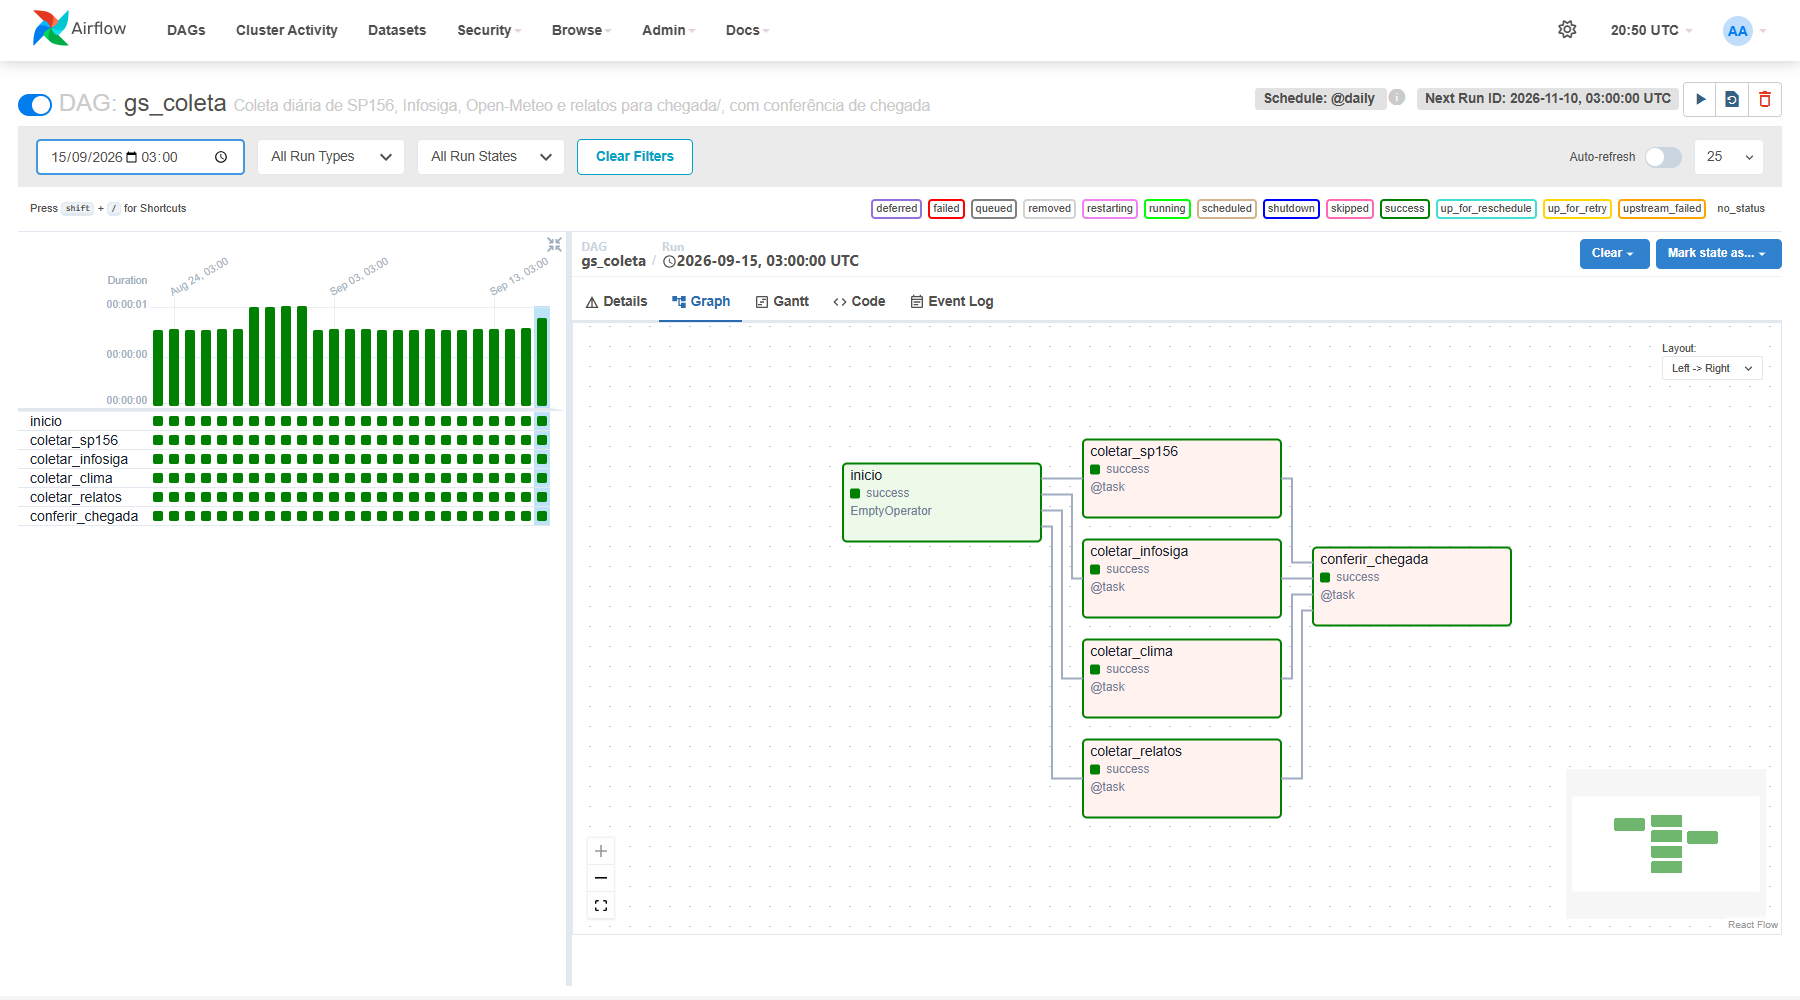
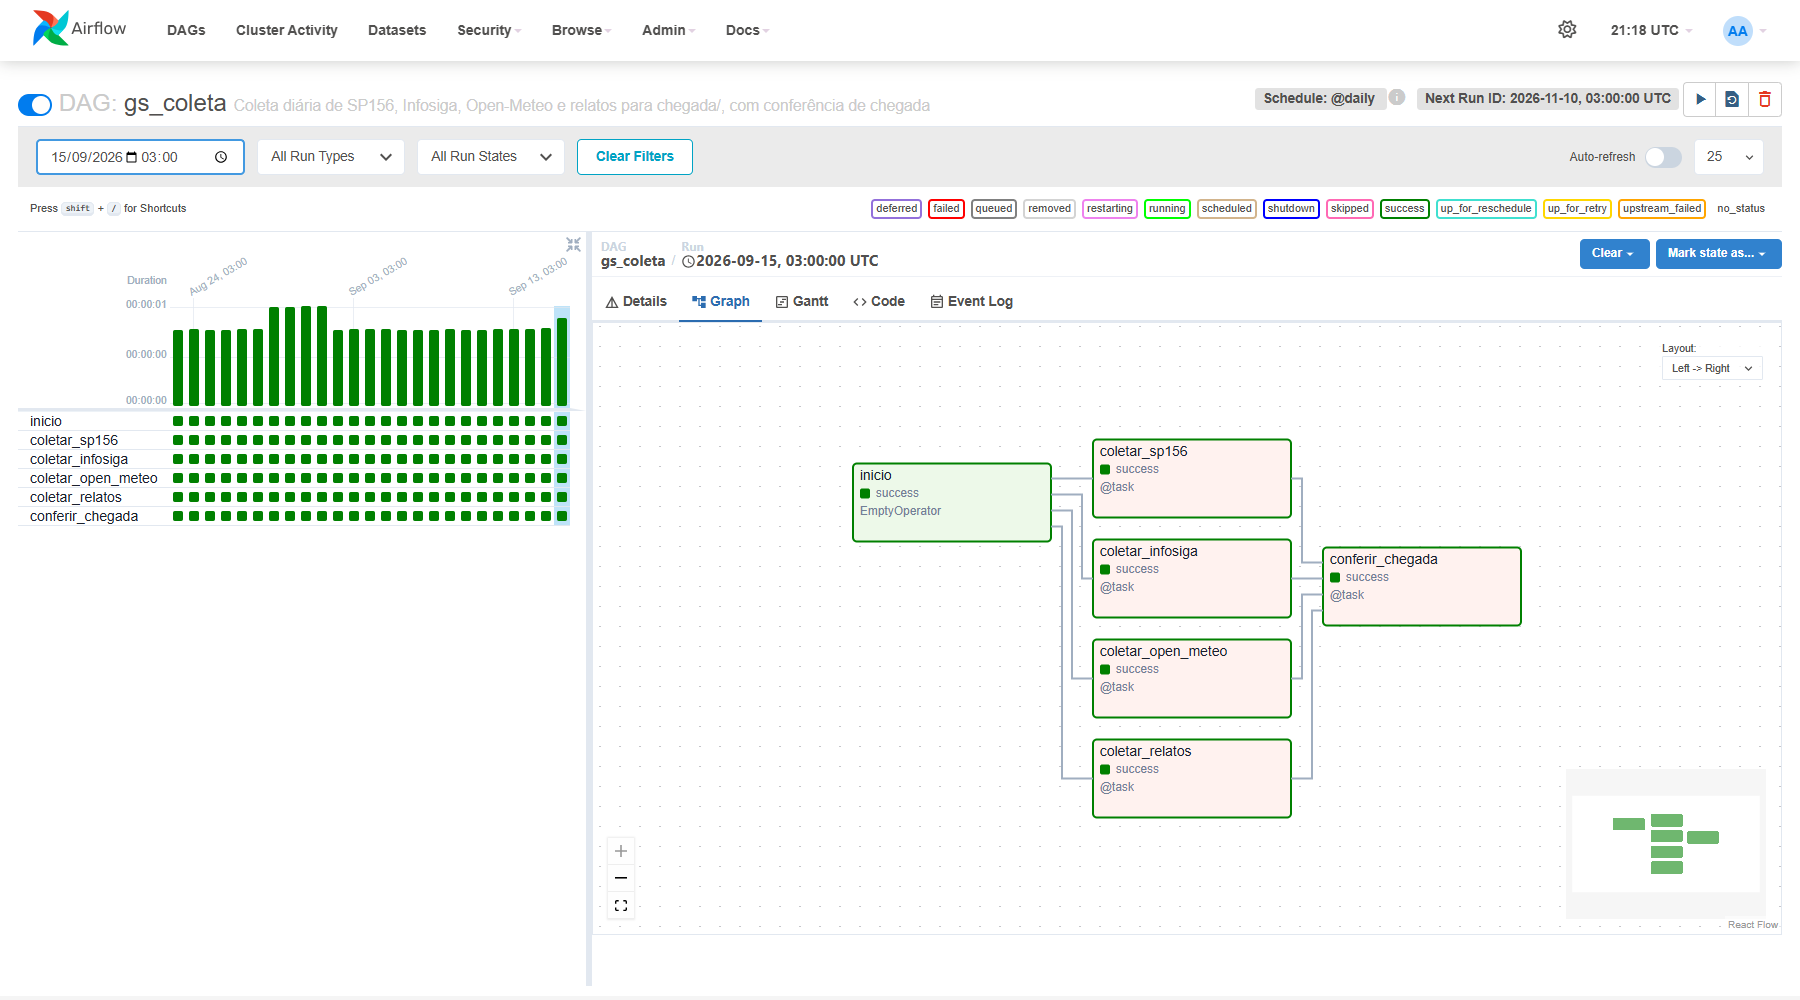
fix(coleta): conferir_chegada com NONE_FAILED e sem task_display_name
- trigger_rule NONE_FAILED: a conferencia roda e falha ("nenhuma fonte gravou") quando todas as coletas
  ficam skipped; com none_failed_min_one_success ela ficava skipped e o run passava em silencio
- remove o task_display_name "coletar_clima": a tarefa e coletar_open_meteo, igual a pasta e a tabela
- README e docstring da DAG atualizados; prints 06a e 06b refeitos

diff --git a/dags/gs_coleta.py b/dags/gs_coleta.py
@@ -1,23 +1,20 @@
 """DAG gs_coleta: coleta diária das quatro fontes para a pasta chegada/ (zona de aterrissagem).
 
-Estrutura:  inicio >> [coletar_sp156, coletar_infosiga, coletar_clima, coletar_relatos] >> conferir_chegada
+Estrutura:  inicio >> [coletar_sp156, coletar_infosiga, coletar_open_meteo, coletar_relatos] >> conferir_chegada
 
 Os arquivos de chegada/ são enviados ao Databricks manualmente, pela interface; esta DAG
 não faz upload. Cada coleta grava chegada/<fonte>/<fonte>_AAAA-MM-DD.<ext> e é idempotente.
 Depois das quatro coletas, conferir_chegada confere se cada uma que terminou em 'success' deixou
 o arquivo do dia (e se ele não está vazio), loga o que chegou e o que foi 'skipped' com o motivo, e
 falha (com o mesmo alerta do Discord) se uma coleta 'success' não deixou arquivo ou se nenhuma
-fonte gravou.
+fonte gravou. Ela roda mesmo que todas as coletas tenham ficado 'skipped' (trigger_rule none_failed),
+justamente para falhar nesse caso em vez de passar em silêncio.
 
 Por que SP156 e Infosiga aparecem como 'skipped'. As duas fontes só publicam o trimestre depois que
 ele fecha, e com semanas de atraso. Dia cujo trimestre ainda não saiu (hoje, de 01/10/2026 em
 diante) não tem arquivo, e a coleta fica 'skipped' em vez de falhar: é esperado, não é erro. A
 Open-Meteo e os relatos não têm essa defasagem e gravam todos os dias. Quando o trimestre sair, limpe
 as coletas 'skipped' daquelas datas para recoletar.
-
-O task_id da Open-Meteo é 'coletar_open_meteo' (o mesmo nome da fonte e da pasta chegada/open_meteo/);
-a interface do Airflow o mostra como 'coletar_clima' (task_display_name). Manter o task_id preserva
-o histórico, os logs e as tentativas dos runs já executados.
 
 Variables do Airflow:
   ALERTA_WEBHOOK_URL     webhook do Discord que recebe o alerta de falha
@@ -76,7 +73,7 @@ def gs_coleta():
     def coletar_infosiga():
         return infosiga.coletar(_dia())
 
-    @task(task_display_name="coletar_clima")
+    @task
     def coletar_open_meteo():
         return open_meteo.coletar(_dia())
 
@@ -84,8 +81,10 @@ def gs_coleta():
     def coletar_relatos():
         return relatos.coletar(_dia())
 
-    # Roda quando nenhuma coleta falhou e pelo menos uma gravou; coleta 'skipped' não impede a conferência.
-    @task(trigger_rule=TriggerRule.NONE_FAILED_MIN_ONE_SUCCESS)
+    # NONE_FAILED: roda quando nenhuma coleta falhou, mesmo que todas tenham ficado 'skipped'; assim ela
+    # falha ("nenhuma fonte gravou") em vez de ficar 'skipped' sem avisar. Se uma coleta falhar, o alerta
+    # já sai dela e a conferência fica 'upstream_failed'.
+    @task(trigger_rule=TriggerRule.NONE_FAILED)
     def conferir_chegada():
         contexto = get_current_context()
         run = contexto["dag_run"]

diff --git a/dags/gs_coleta_lib/conferir.py b/dags/gs_coleta_lib/conferir.py
@@ -24,8 +24,7 @@ from . import comum
 
 log = logging.getLogger(__name__)
 
-# task_id de cada coleta -> fonte (nome da pasta em chegada/). O task_id da Open-Meteo segue
-# 'coletar_open_meteo' (aparece como 'coletar_clima' na interface; ver task_display_name na DAG).
+# fonte (nome da pasta em chegada/) -> task_id da coleta
 TAREFA_DA_FONTE = {
     "sp156": "coletar_sp156",
     "infosiga": "coletar_infosiga",

diff --git a/README.md b/README.md
@@ -18,10 +18,10 @@ Ficha Técnica: [README do repositório principal](https://github.com/Passo-Segu
 A DAG `gs_coleta` (`@daily`, `start_date` 2026-06-01, `catchup=True`) grava **um arquivo por fonte e por dia** em `chegada/<fonte>/`. O upload ao Databricks é manual, pela interface.
 
 ```
-inicio >> [coletar_sp156, coletar_infosiga, coletar_clima, coletar_relatos] >> conferir_chegada
+inicio >> [coletar_sp156, coletar_infosiga, coletar_open_meteo, coletar_relatos] >> conferir_chegada
 ```
 
-São 6 tarefas: `inicio` (`EmptyOperator`), as 4 coletas em paralelo e `conferir_chegada`, que confere se os arquivos chegaram. Na interface a coleta da Open-Meteo aparece como `coletar_clima` (`task_display_name`), mas o `task_id` continua `coletar_open_meteo`, o mesmo nome da fonte e da pasta; assim os logs e o histórico dos runs já executados ficam como estavam. Para usar na CLI, use `coletar_open_meteo`.
+São 6 tarefas: `inicio` (`EmptyOperator`), as 4 coletas em paralelo e `conferir_chegada`, que confere se os arquivos chegaram. Cada coleta tem o nome da fonte e da pasta em `chegada/`.
 
 ![Graph da DAG gs_coleta: inicio, as 4 coletas em paralelo e conferir_chegada](relatorio/prints/06a_airflow_graph.png)
 
@@ -46,15 +46,13 @@ No Grid, `coletar_sp156` e `coletar_infosiga` ficam em rosa (`skipped`) de 01/10
 
 ### Conferência de chegada (`conferir_chegada`)
 
-Roda depois das 4 coletas, com `trigger_rule=none_failed_min_one_success` (nenhuma coleta falhou e ao menos uma gravou; coleta `skipped` não a impede). Para o dia do run, ela confere:
+Roda depois das 4 coletas, com `trigger_rule=none_failed`: roda quando nenhuma coleta falhou, **mesmo que todas tenham ficado `skipped`**, para falhar nesse caso em vez de ficar `skipped` sem avisar. (Se uma coleta falhar, o alerta já sai dela e a conferência fica `upstream_failed`.) Para o dia do run, ela confere:
 
 - coleta em `success`: existe `chegada/<fonte>/<fonte>_AAAA-MM-DD.<ext>` e o arquivo não está vazio (0 bytes). CSV só com cabeçalho (dia do Infosiga sem sinistro com pedestre) é válido e sai como aviso no log;
 - coleta em `skipped`: não há arquivo, e o log traz o motivo (lido do log da coleta, porque o Airflow não o guarda no banco);
 - **falha** se uma coleta `success` não deixou arquivo, se o estado for inesperado ou se nenhuma fonte gravou. A falha não tem nova tentativa e dispara o mesmo alerta do Discord das outras tarefas (`on_failure_callback` da DAG).
 
 O log de cada run lista uma linha por fonte (`[CHEGOU]` ou `[SKIPPED] ... Motivo: ...`) e um resumo. A lógica está em `dags/gs_coleta_lib/conferir.py`, separada da DAG para ser testável sem o Airflow.
-
-Limite conhecido: com essa trigger rule, se **todas** as coletas ficarem `skipped`, a própria `conferir_chegada` fica `skipped` em vez de falhar (hoje não acontece: Open-Meteo e relatos gravam todo dia). Para falhar nesse caso também, troque para `TriggerRule.NONE_FAILED`.
 
 **Runs antigos.** `inicio` e `conferir_chegada` foram acrescentadas aos 162 runs já executados (01/06 a 09/11) **sem regravar nenhum arquivo de `chegada/`**. `airflow tasks clear` só limpa tarefas que já existem no banco, e essas duas não existiam nos runs antigos; por isso cada run foi recolocado na fila (`queued`). O scheduler então criou só as tarefas que faltavam e executou só elas, e as `coletar_*`, já em `success`/`skipped`, não foram reexecutadas. Conferido depois: hash e mtime dos 568 arquivos de `chegada/` iguais aos de antes, e as 648 tarefas `coletar_*` com estado, início, fim e tentativas intactos. Efeito colateral: a data de início e a duração de cada run, na interface, passam a ser as da conferência (10/11/2026, cerca de 1 s), não as da coleta original.
 
